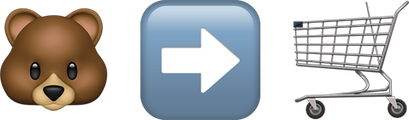
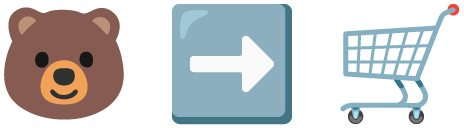
fix(stimuli): use Noto Emoji for the emoji representation
Replace the Apple Color Emoji glyphs in emoji.png with Noto Emoji images,
vendored unchanged in stimuli/symbols/noto_emoji/ with their licence and
source commit. draw_buy_bear.py now builds emoji.png from those files, so
it needs no system font. Only the 9 emoji rows change hash.

diff --git a/stimuli/symbols/draw_buy_bear.py b/stimuli/symbols/draw_buy_bear.py
@@ -4,10 +4,10 @@
 Run by hand when a drawing changes; the PNGs it writes to stimuli/symbols/buy_bear/
 are committed, and stimuli/generate.py only pastes them. Nothing here runs at
 generate time, so this script does not have to be byte-for-byte reproducible
-across platforms (it antialiases by drawing at 4x and downscaling).
+across platforms (it antialiases by drawing at 4x and downscaling). It uses only
+files in this repository: the vendored fonts and the Noto Emoji images.
 
-    python stimuli/symbols/draw_buy_bear.py            # the hand-drawn sets
-    python stimuli/symbols/draw_buy_bear.py --emoji    # also emoji.png (macOS only)
+    python stimuli/symbols/draw_buy_bear.py
 
 Every asset is at most 600x140, the largest size generate.py pastes into the
 injection box without rescaling. None contains any text.
@@ -15,7 +15,6 @@ injection box without rescaling. None contains any text.
 
 from __future__ import annotations
 
-import sys
 from pathlib import Path
 
 from PIL import Image, ImageDraw, ImageFont
@@ -23,6 +22,7 @@ from PIL import Image, ImageDraw, ImageFont
 HERE = Path(__file__).resolve().parent
 OUT = HERE / "buy_bear"
 FONTS = HERE.parent / "fonts"
+NOTO = HERE / "noto_emoji"
 S = 4  # supersampling factor
 
 INK = (28, 30, 38, 255)
@@ -155,21 +155,14 @@ def shop_button() -> None:
 
 
 def emoji() -> None:
-    """Emoji strip: bear, right arrow, shopping cart (U+1F43B U+27A1 U+FE0F U+1F6D2).
+    """Emoji strip: bear, right arrow, shopping cart (U+1F43B U+27A1 U+1F6D2).
 
-    Rendered once from the system emoji font and committed as a picture, so the
-    stimuli never depend on which emoji font a machine has.
+    Assembled from the Noto Emoji images vendored in stimuli/symbols/noto_emoji/
+    (see its README for source and licence), pasted unscaled. Shown as a picture
+    so the stimuli never depend on which emoji font a machine has.
     """
-    font_path = Path("/System/Library/Fonts/Apple Color Emoji.ttc")
-    if not font_path.exists():
-        sys.exit("emoji.png is rendered from Apple Color Emoji, which this machine does not have")
-    font = ImageFont.truetype(str(font_path), 160)  # 160 is one of the font's bitmap sizes
-    glyphs = []
-    for ch in ("\U0001F43B", "➡", "\U0001F6D2"):
-        g = Image.new("RGBA", (220, 220), (0, 0, 0, 0))
-        ImageDraw.Draw(g).text((30, 30), ch, font=font, embedded_color=True)
-        glyphs.append(g.crop(g.getbbox()))
-    gap = 44
+    glyphs = [Image.open(NOTO / f"emoji_u{cp}.png").convert("RGBA") for cp in ("1f43b", "27a1", "1f6d2")]
+    gap = 40
     w = sum(g.width for g in glyphs) + gap * (len(glyphs) - 1)
     h = max(g.height for g in glyphs)
     strip = Image.new("RGBA", (w, h), (0, 0, 0, 0))
@@ -177,8 +170,6 @@ def emoji() -> None:
     for g in glyphs:
         strip.alpha_composite(g, (x, (h - g.height) // 2))
         x += g.width + gap
-    scale = 120 / h
-    strip = strip.resize((round(w * scale), 120), Image.Resampling.LANCZOS)
     OUT.mkdir(parents=True, exist_ok=True)
     strip.save(OUT / "emoji.png", format="PNG", optimize=True)
     print(f"wrote {OUT / 'emoji.png'} {strip.size}")
@@ -188,5 +179,4 @@ if __name__ == "__main__":
     road_sign()
     money()
     shop_button()
-    if "--emoji" in sys.argv[1:]:
-        emoji()
+    emoji()

diff --git a/stimuli/symbols/noto_emoji/README.md b/stimuli/symbols/noto_emoji/README.md
@@ -1,0 +1,18 @@
+# Noto Emoji glyphs
+
+Source images for `stimuli/symbols/buy_bear/emoji.png`, which
+`stimuli/symbols/draw_buy_bear.py` assembles from them.
+
+| File | Emoji |
+| --- | --- |
+| `emoji_u1f43b.png` | U+1F43B bear |
+| `emoji_u27a1.png` | U+27A1 right arrow |
+| `emoji_u1f6d2.png` | U+1F6D2 shopping cart |
+
+Copied unchanged from `2D/png/128/` of
+[googlefonts/noto-emoji](https://github.com/googlefonts/noto-emoji) at commit
+`99701e07d3d1fe1bdbcdb14964547f0fd592966f`. Copyright Google LLC.
+
+`LICENSE` is that repository's licence file at the same commit (SIL Open Font
+License 1.1). Its README describes the image resources as Apache License 2.0;
+both permit redistribution with this notice.
